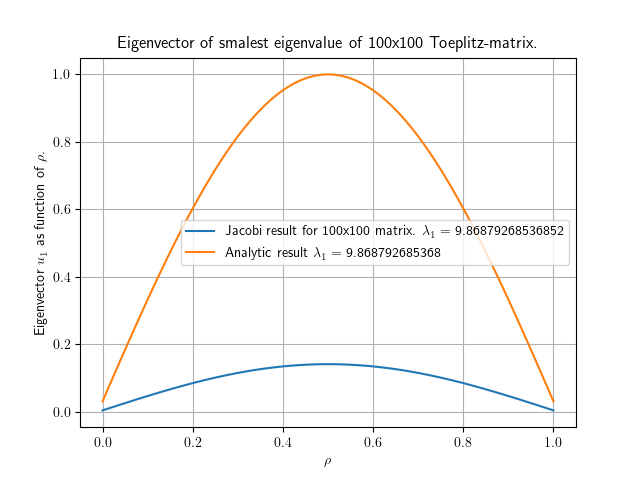
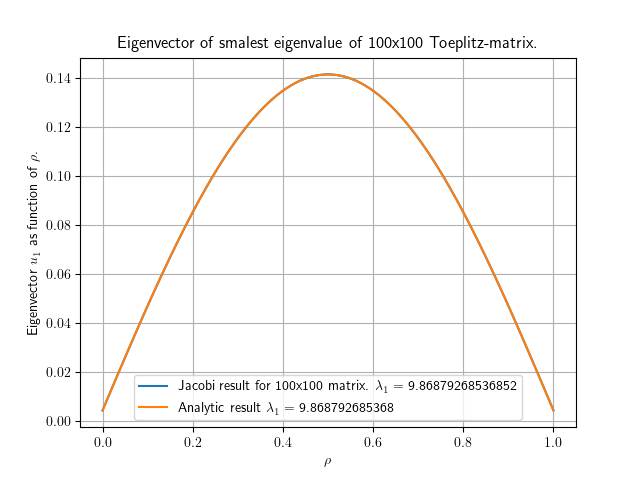
normalized plot

diff --git a/project.py b/project.py
@@ -56,13 +56,16 @@ if choose_run == "toeplitz":
     rho = np.linspace(rho_min, rho_max, N-1)
     eigvec = R[:, comp_inx[0]]
 
+    anal_norm = np.linalg.norm(anal_eigvecs[:, 0])
+    comp_norm = np.linalg.norm(eigvec)
+
     mpl.rcParams.update({"text.usetex": True})  # using latex.
     comp_lab = f"Jacobi result for {N}x{N} matrix."
     an_lab = r"Analytic result $\lambda_{1} = $ " + f"{anal_eigvals[0]}"
 
     plt.figure()
-    plt.plot(rho, eigvec, label=comp_lab+r" $\lambda_{1} = $ " + f"{eigval}")
-    plt.plot(rho, anal_eigvecs[:, 0], label=an_lab)
+    plt.plot(rho, eigvec/comp_norm, label=comp_lab+r" $\lambda_{1} = $ " + f"{eigval}")
+    plt.plot(rho, anal_eigvecs[:, 0]/anal_norm, label=an_lab)
     plt.title(f"Eigenvector of smalest eigenvalue of {N}x{N} Toeplitz-matrix.")
     plt.xlabel(r"$\rho$")
     plt.ylabel(r"Eigenvector $u_{1}$ as function of $\rho$.")
